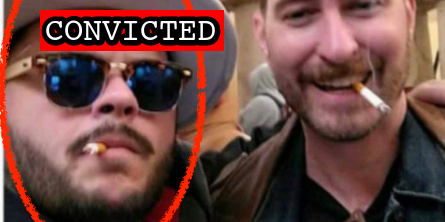
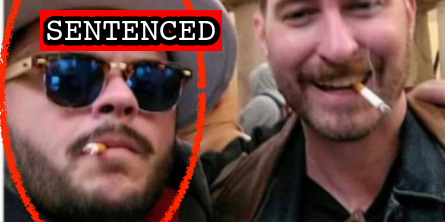
PB Sentence

Changed region(s): [[0.2337, 0.0541, 0.409, 0.2162], [0.0876, 0.0541, 0.2045, 0.2162], [0.4966, 0.0541, 0.5258, 0.2162]]

diff --git a/docs/_suspects/john-nassif.md b/docs/_suspects/john-nassif.md
@@ -41,25 +41,27 @@ caseName: USA v. NASSIF
 judge: John D. Bates
 videos:
 charges:
-- code: 18 USC § 1752(a)(1)
-  title: Entering a restricted building or grounds
-  url: https://www.law.cornell.edu/uscode/text/18/1752
-  felony: false
-- code: 18 USC § 1752(a)(2)
-  title: Disorderly and disruptive conduct in a restricted building or grounds
-  url: https://www.law.cornell.edu/uscode/text/18/1752
-  felony: false
-- code: 40 USC § 5104(e)(2)(D)
-  title: Disorderly Conduct in a Capitol Building
-  url: https://www.law.cornell.edu/uscode/text/40/5104
-  felony: false
-- code: 40 USC § 5104(e)(2)(G)
-  title: Parading, demonstrating or picketing in a Capitol building
-  url: https://www.law.cornell.edu/uscode/text/40/5104
-  felony: false
+  - code: 18 USC § 1752(a)(1)
+    title: Entering a restricted building or grounds
+    url: https://www.law.cornell.edu/uscode/text/18/1752
+    felony: false
+  - code: 18 USC § 1752(a)(2)
+    title: Disorderly and disruptive conduct in a restricted building or grounds
+    url: https://www.law.cornell.edu/uscode/text/18/1752
+    felony: false
+  - code: 40 USC § 5104(e)(2)(D)
+    title: Disorderly Conduct in a Capitol Building
+    url: https://www.law.cornell.edu/uscode/text/40/5104
+    felony: false
+  - code: 40 USC § 5104(e)(2)(G)
+    title: Parading, demonstrating or picketing in a Capitol building
+    url: https://www.law.cornell.edu/uscode/text/40/5104
+    felony: false
 sentence:
 ---
+
 - [News Report](https://www.clickorlando.com/news/local/2021/05/10/winter-springs-man-charged-in-capitol-riot-after-tipsters-alerted-fbi-to-his-facebook-posts/)
 - [Complaint](https://www.justice.gov/opa/case-multi-defendant/file/1392876/download)
 - [Statement of Facts](https://www.justice.gov/opa/case-multi-defendant/file/1392881/download)
 - [Information](https://www.justice.gov/usao-dc/case-multi-defendant/file/1461491/download)
+- [DOJ Press Release (Conviction)](https://www.justice.gov/usao-dc/pr/florida-man-found-guilty-four-misdemeanor-charges-related-capitol-breach)

diff --git a/docs/_suspects/nicholas-decarlo.md b/docs/_suspects/nicholas-decarlo.md
@@ -4,13 +4,13 @@ lastName: DeCarlo
 hashtag: NicholasDeCarlo
 aka:
 residence: Texas
-status: Convicted
+status: Sentenced
 date: 2021-01-19
 charged: 2021-01-19
 indicted: 2021-02-03
 convicted: 2022-09-09
 acquitted:
-sentenced:
+sentenced: 2022-12-09
 dismissed:
 deceased:
 plea_hearing: 2022-09-09
@@ -41,12 +41,17 @@ caseName: USA v. DECARLO
 judge: Beryl A. Howell
 videos:
 charges:
-- code: 18 USC § 1512(c)(2)
-  title: Obstruction of an Official Proceeding
-  url: https://www.law.cornell.edu/uscode/text/18/1512
-  felony: true
+  - code: 18 USC § 1512(c)(2)
+    title: Obstruction of an Official Proceeding
+    url: https://www.law.cornell.edu/uscode/text/18/1512
+    felony: true
 sentence:
+  - 4 years incarceration
+  - 3 years probation
+  - $2500 fine
+  - $2000 restitution
 ---
+
 - [News Report](https://www.latimes.com/world-nation/story/2021-02-04/reporting-or-rioting-grand-jury-indicts-capitol-rioters-who-claim-theyre-journalists)
 - [Self Incrimination](https://www.latimes.com/world-nation/story/2021-01-13/some-who-stormed-the-capitol-insist-what-i-did-was-journalism)
 - [Complaint](https://www.justice.gov/opa/page/file/1360496/download)
@@ -56,3 +61,4 @@ sentence:
 - [Plea Agreement](https://www.justice.gov/usao-dc/case-multi-defendant/file/1533931/download)
 - [Statement of Offense](https://www.justice.gov/usao-dc/case-multi-defendant/file/1533936/download)
 - [Sentencing Memo](https://storage.courtlistener.com/recap/gov.uscourts.dcd.227062/gov.uscourts.dcd.227062.94.0.pdf)
+- [DOJ Press Release (Sentencing)](https://www.justice.gov/usao-dc/pr/two-men-sentenced-prison-terms-actions-during-jan-6-capitol-breach)

diff --git a/docs/_suspects/nicholas-ochs.md b/docs/_suspects/nicholas-ochs.md
@@ -4,13 +4,13 @@ lastName: Ochs
 hashtag: NickOchs
 aka:
 residence: Hawaii
-status: Convicted
+status: Sentenced
 date: 2021-01-07
 charged: 2021-01-07
 indicted: 2021-02-03
 convicted: 2022-09-09
 acquitted:
-sentenced:
+sentenced: 2022-12-09
 dismissed:
 deceased:
 plea_hearing: 2022-09-09
@@ -41,12 +41,17 @@ caseName: USA v. OCHS
 judge: Beryl A. Howell
 videos:
 charges:
-- code: 18 USC § 1512(c)(2)
-  title: Obstruction of an Official Proceeding
-  url: https://www.law.cornell.edu/uscode/text/18/1512
-  felony: true
+  - code: 18 USC § 1512(c)(2)
+    title: Obstruction of an Official Proceeding
+    url: https://www.law.cornell.edu/uscode/text/18/1512
+    felony: true
 sentence:
+  - 4 years incarceration
+  - 3 years probation
+  - $2500 fine
+  - $2000 restitution
 ---
+
 - [News Report](https://nypost.com/2021/01/09/proud-boys-leader-nicholas-ochs-arrested-for-seen-smoking-inside-capitol-during-riots-arrested/)
 - [DOJ Press Release](https://www.justice.gov/usao-hi/pr/nicholas-r-ochs-arrested-unlawful-entry-united-states-capitol-building)
 - [Complaint](https://www.justice.gov/opa/page/file/1353336/download)
@@ -56,3 +61,4 @@ sentence:
 - [Plea Agreement](https://www.justice.gov/usao-dc/case-multi-defendant/file/1533916/download)
 - [Statement of Offense](https://www.justice.gov/usao-dc/case-multi-defendant/file/1533921/download)
 - [Sentencing Memo](https://storage.courtlistener.com/recap/gov.uscourts.dcd.227061/gov.uscourts.dcd.227061.93.0.pdf)
+- [DOJ Press Release (Sentencing)](https://www.justice.gov/usao-dc/pr/two-men-sentenced-prison-terms-actions-during-jan-6-capitol-breach)
